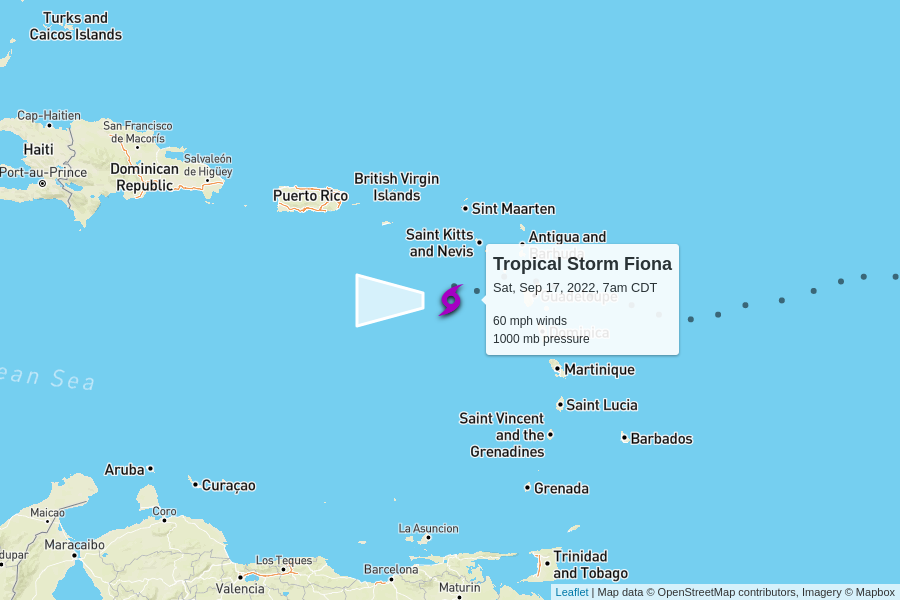
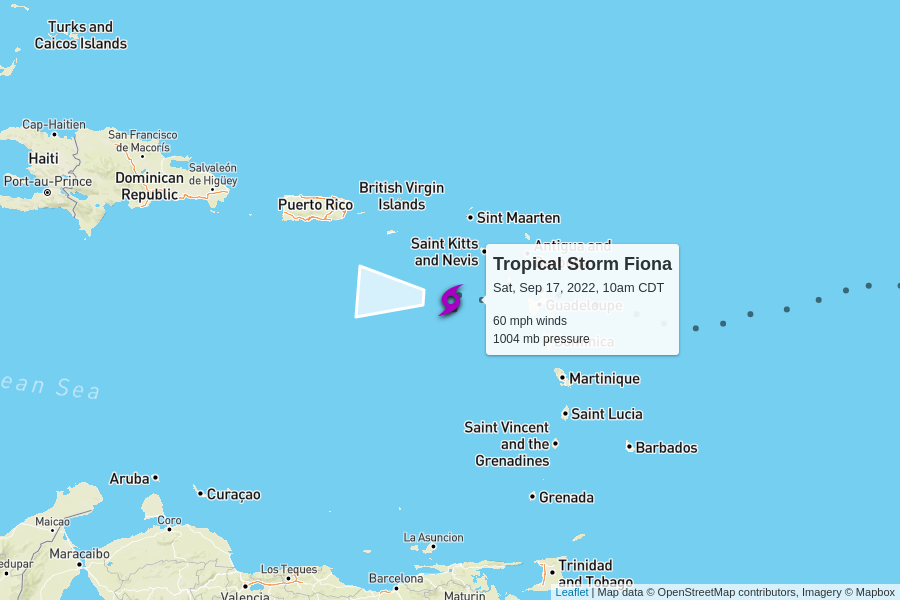
automatic update

diff --git a/docs/index.html b/docs/index.html
@@ -100,7 +100,7 @@
         <td colspan="6" class="storm category-0" >
           <h2>
             Tropical Storm Fiona
-            <p class="updated">last updated <span data-time>2022-09-17T12:00:00.000Z</span></p>
+            <p class="updated">last updated <span data-time>2022-09-17T15:00:00.000Z</span></p>
           </h2>
         </td>
       </tr>
@@ -116,11 +116,11 @@
       <tr>
         <td class="spacer"></td>
         <td>60 mph</td>
-        <td>1000 mb</td>
+        <td>1004 mb</td>
         <td>
-          13 mph to the west
+          8 mph to the west
           <br/>
-          <span style="display: inline-block; font-size: 1.5em; transform: rotate(270deg);">↑</span>
+          <span style="display: inline-block; font-size: 1.5em; transform: rotate(275deg);">↑</span>
         </td>
         <td><a href="https://raw.githubusercontent.com/mgwalker/atlantic-hurricanes/main/data/csv/AL072022.csv">AL072022.csv</a></td>
         <td><a href="https://www.nhc.noaa.gov/archive/2022/FIONA.shtml?">NHC advisories</a></td>
